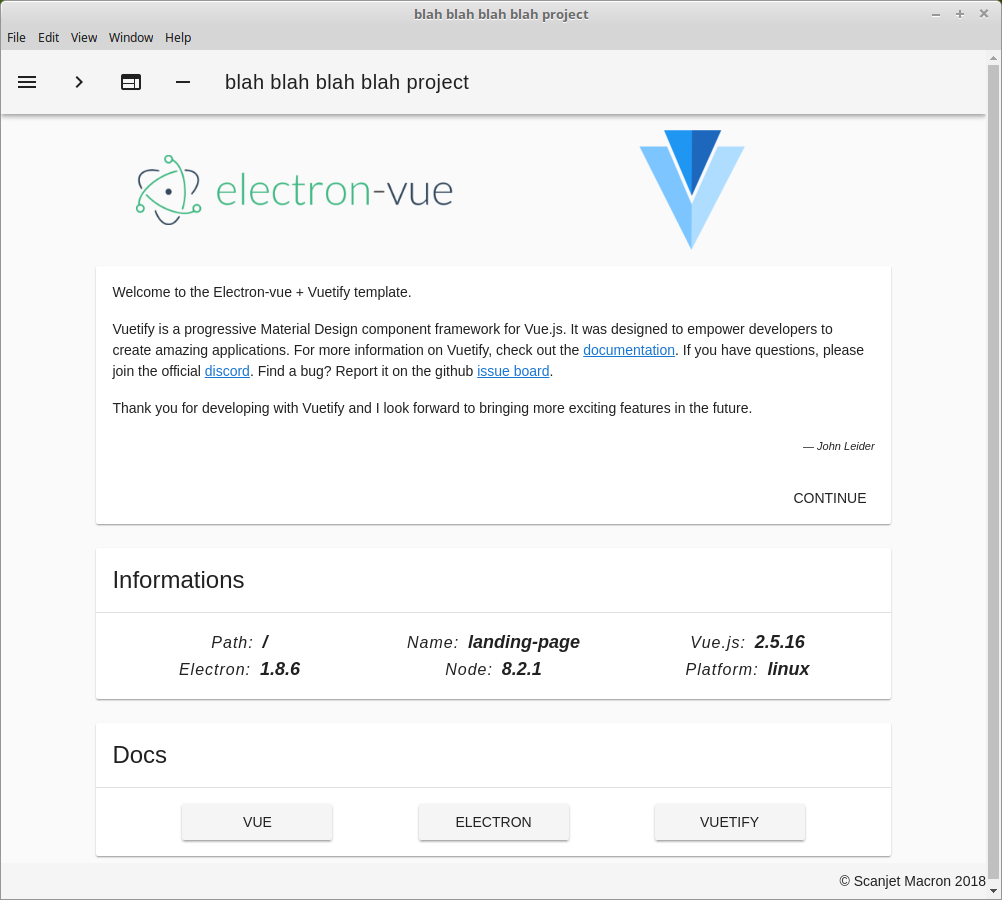
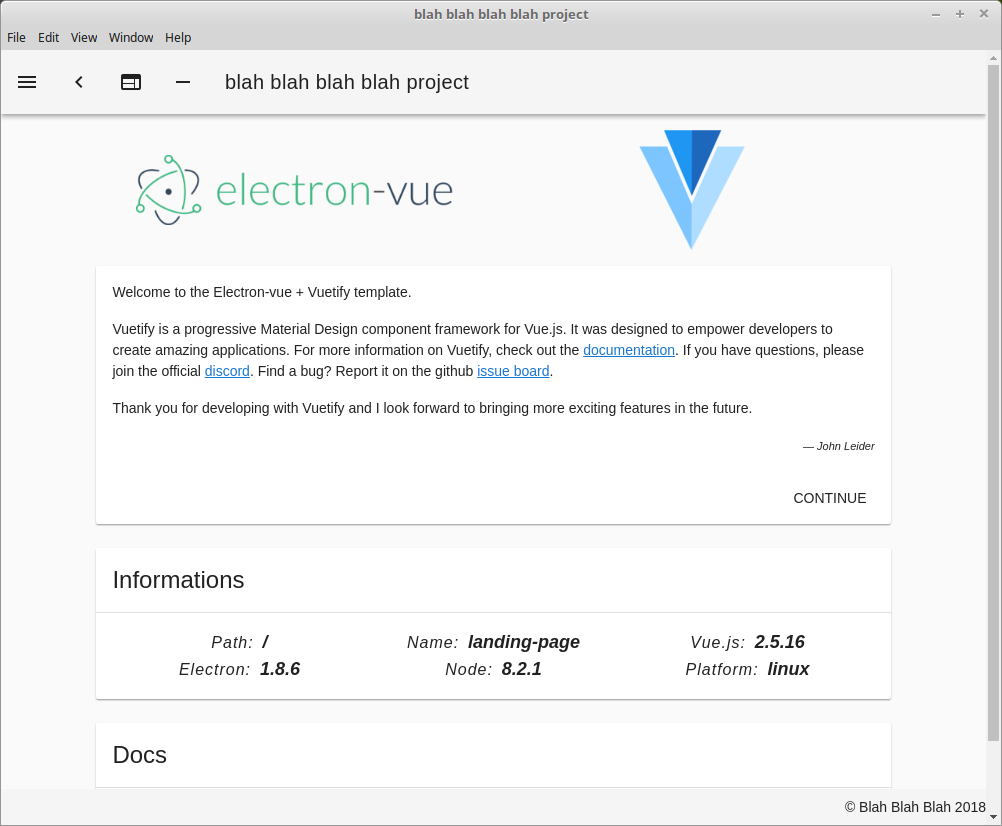
updated captures

diff --git a/hmi_base/src/renderer/App.vue b/hmi_base/src/renderer/App.vue
@@ -67,7 +67,7 @@
       </v-content>
       <v-footer :fixed="fixed" app>
         <v-spacer></v-spacer>
-        <span>&copy; Scanjet Macron 2018</span>
+        <span>&copy; Blah Blah Blah 2018</span>
       </v-footer>
     </v-app>
   </div>
